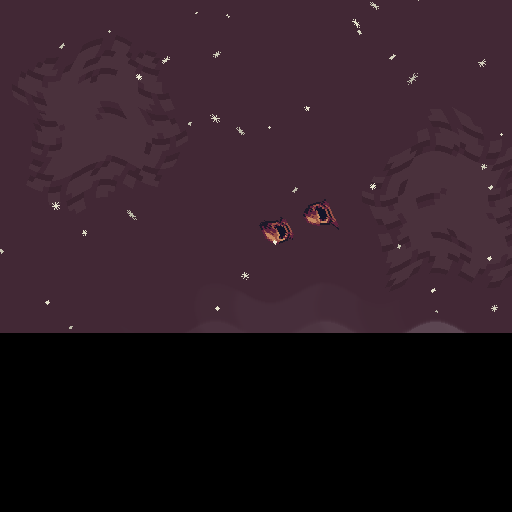
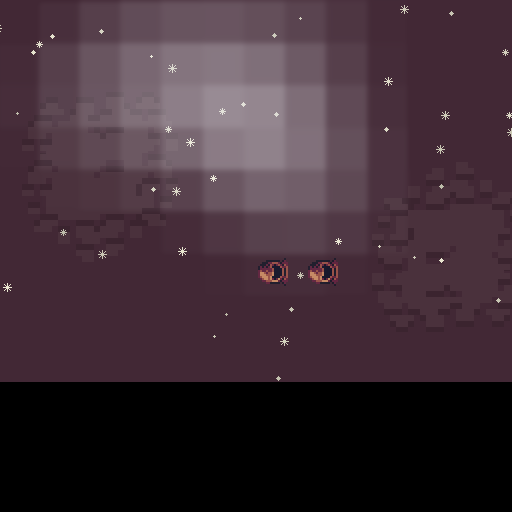
use both observation spaces

diff --git a/data_generator.py b/data_generator.py
@@ -20,8 +20,8 @@ def extract_zombie_coords(all_positions): #all_positions is global game state
         if object[0]==1:
             w_bbox = 29.0/1280
             h_bbox = 31.0/720
-            x = object[7]+w_bbox
-            y = object[8]+h_bbox
+            x = object[7]
+            y = object[8]
             zombie_normalized_coords = [x,y,w_bbox,h_bbox]
             all_zombies.append(zombie_normalized_coords)
     return np.array(all_zombies)
@@ -58,26 +58,27 @@ def draw_zombie_positions(env : Any):
         return
 
 #this function draws DETECTED zombie positions
-def draw_detected_zombies(env : Any):
-    model = YOLO("weights_vision/best(3).pt")
-    frame = pygame.surfarray.array3d(env.unwrapped.screen)
-    frame = np.swapaxes(frame,0,1)
-    pil_image = Image.fromarray(frame,mode='RGB')
-    results = model.predict(frame,verbose=False)
+def draw_detected_zombies(obs):
+    model = YOLO("weights_vision2/best(4).pt")
+    '''frame = pygame.surfarray.array3d(env.unwrapped.screen)
+    frame = np.swapaxes(frame,0,1)'''
+    pil_image = Image.fromarray(obs,mode='RGB')
+    results = model.predict(obs,verbose=False)
     b_boxes = results[0].boxes.xywh
+    print(len(results[0].boxes))
     for b_box in b_boxes:
         real_center_x = b_box[0]+15
         real_center_y = b_box[1]+15
 
         draw = ImageDraw.Draw(pil_image)
         draw.ellipse([real_center_x-5,real_center_y-5,real_center_x+5,real_center_y+5],fill ="#ffff33", outline ="red")
-    #pil_image.save("zombie_detection_shown.jpg")
+    pil_image.save("zombie_detection_shown.jpg")
     
 
 
 class DataGenerator:
     def __init__(self):
-        self._counter = 5
+        self._counter = 4
 
     #https://docs.ultralytics.com/datasets/#steps-to-contribute-a-new-dataset
     #generates for each frame an image and a txt file which describes zombie positions(need this for yolo training)
@@ -104,9 +105,11 @@ class DataGenerator:
             if teammate is not None:
                 pixel_x_diff = 1280*teammate[0]
                 pixel_y_diff = 720*teammate[1]
-                if abs(pixel_x_diff)<249 and abs(pixel_y_diff) < 249:
+                if abs(pixel_x_diff)<256 and abs(pixel_y_diff) < 256:
                     with open(f"dataset\\labels\\train\\img{self._counter}.txt", "a") as f:
                             f.write(f"1 {teammate[0]} {teammate[1]} 0.03 0.03\n")
+            with open(f"dataset\\labels\\train\\img{self._counter}.txt", "a") as f:
+                            f.write(f"1 0 0 0.03 0.03\n")
         else:
             for zombie in zombie_coords:
                 pixel_x_diff = 1280*zombie[0]
@@ -117,9 +120,11 @@ class DataGenerator:
             if teammate is not None:
                 pixel_x_diff = 1280*teammate[0]
                 pixel_y_diff = 720*teammate[1]
-                if abs(pixel_x_diff)<249 and abs(pixel_y_diff) < 249:
+                if abs(pixel_x_diff)<256 and abs(pixel_y_diff) < 256:
                     with open(f"dataset\\labels\\val\\img{self._counter}.txt", "a") as f:
                         f.write(f"1 {teammate[0]} {teammate[1]} 0.03 0.03\n")
+            with open(f"dataset\\labels\\val\\img{self._counter}.txt", "a") as f:
+                            f.write(f"1 0 0 0.03 0.03\n")
 
         #data is the pixels on the screen
         #https://stackoverflow.com/questions/19982760/get-numpy-array-from-pygame
@@ -131,7 +136,7 @@ class DataGenerator:
         data = np.swapaxes(data,0,1)
         print(data.shape)
         own_pixel_x = int(own[0] * 1280)
-        own_pixel_y = int(own[1] * 780)
+        own_pixel_y = int(own[1] * 720)
 
         left   = own_pixel_x - 256
         right  = own_pixel_x + 256
@@ -141,7 +146,7 @@ class DataGenerator:
         crop_left  = max(0, left)
         crop_top   = max(0, top)
         crop_right = min(1280, right)
-        crop_bottom= min(780, bottom)
+        crop_bottom= min(720, bottom)
 
         paste_x = max(0, -left)
         paste_y = max(0, -top)

diff --git a/change_labels.py b/change_labels.py
@@ -1,6 +1,6 @@
 import os
 
-label_folder = "C:\Users\tinsa\KULeuven\ml-project-2025-2026-main\ml-project-2025-2026-main\dataset\labels\train" 
+label_folder = "C:\\Users\\tinsa\\KULeuven\\ml-project-2025-2026-main\\ml-project-2025-2026-main\\dataset\\labels\\train" 
 
 for filename in os.listdir(label_folder):
     if filename.endswith(".txt"):
@@ -22,8 +22,8 @@ for filename in os.listdir(label_folder):
                 h = parts[4]
 
                 # convert coordinates
-                x = (((x*1280) / 256 ) + 1) /2
-                y = (((y*720) / 256 ) + 1) /2
+                x = max(0, min(1, (((x*1280)/256)+1)/2))
+                y = max(0, min(1, (((y*720)/256)+1)/2))
 
                 new_line = f"{cls} {x} {y} {w} {h}\n"
                 new_lines.append(new_line)

diff --git a/evaluation.py b/evaluation.py
@@ -97,12 +97,13 @@ def evaluate(
 
         for agent in env.agent_iter():
             obs, reward, termination, truncation, info = env.last()
+            #print(obs.shape)
 
             if (step_count<3000*20):
                 if step_count%20==0:
                     data_generator.generate_one_data_point(env,agent,obs,step_count)
             #dg.draw_zombie_positions(env)
-            #dg.draw_detected_zombies(env)
+            #dg.draw_detected_zombies(obs)
             #print(obs.shape)
             '''boxes, indices = tm.find_zombies(obs)
             print(boxes)
